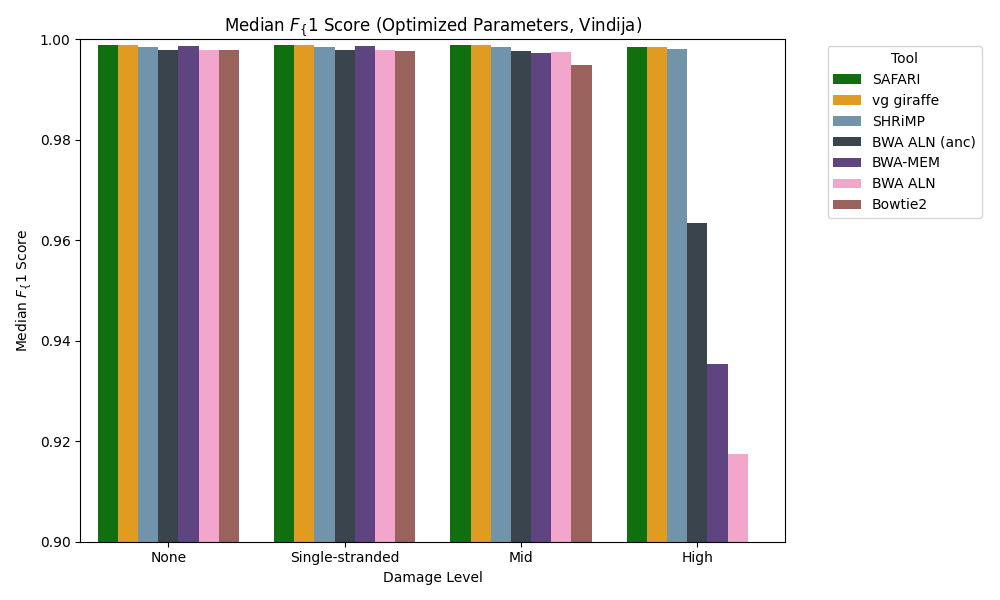
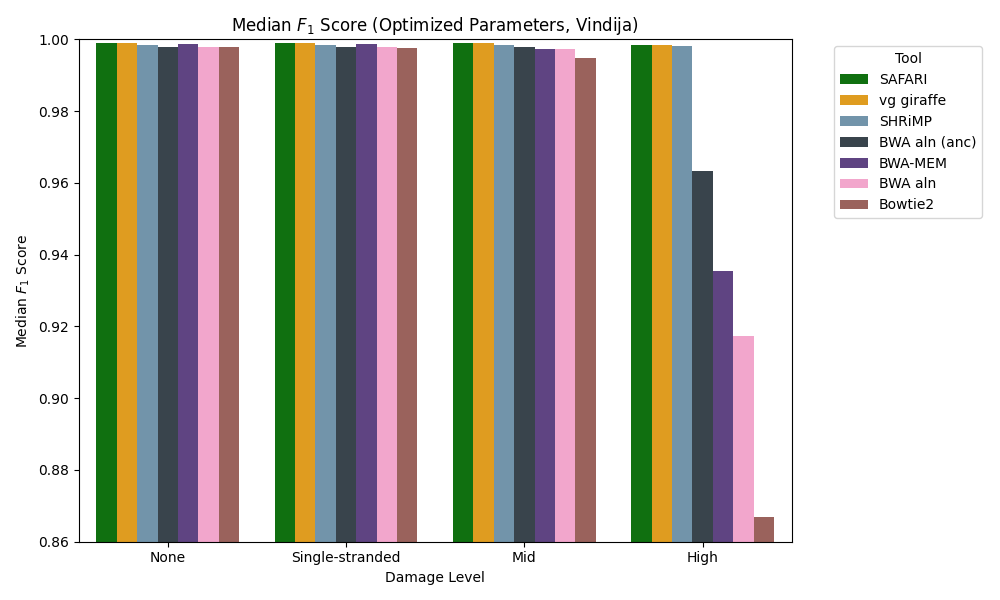
Update plots

diff --git a/linear_experiment/human_mito/stat_results/plot_F1_default_all.py b/linear_experiment/human_mito/stat_results/plot_F1_default_all.py
@@ -1,0 +1,79 @@
+import pandas as pd
+import matplotlib.pyplot as plt
+import seaborn as sns
+import sys
+
+def main():
+    # Load the data
+    file_path = sys.argv[1]
+    data = pd.read_csv(file_path)
+
+    # Subset the dataframe
+    subset_df = data[((data['tool'].str.strip().str.lower().isin(['safari', 'vg giraffe'])) & (data['k'] == 29) & (data['w'] == 11)) | (~data['tool'].str.strip().str.lower().isin(['safari', 'vg giraffe']))]
+
+    # Calculate median F1 scores
+    median_f1_scores = subset_df.groupby(['tool', 'damage_level'])['f1'].median().reset_index()
+
+    # Define custom order for damage levels
+    damage_order = ['None', 'Single-stranded', 'Mid', 'High']
+    median_f1_scores['damage_level'] = pd.Categorical(median_f1_scores['damage_level'], categories=damage_order, ordered=True)
+
+    # Sort the DataFrame by the 'damage_level' to ensure the plot follows the custom order
+    median_f1_scores.sort_values('damage_level', inplace=True)
+    print(median_f1_scores)
+
+    # Correcting the case sensitivity issue for the palette
+    corrected_palette = {
+        'vg giraffe': 'orange',
+        'SAFARI': 'green',
+        'BBMap': '#1f7872',
+        'SHRiMP': '#6996b3',
+        'BWA-MEM': '#5e3a8c',
+        'BWA aln': '#ff99cc',
+        'BWA aln (anc)': '#36454f',
+        'Bowtie2': '#a45a52'
+    }
+
+    # Calculate the maximum and minimum values of the F1 scores
+    max_f1 = median_f1_scores['f1'].max()
+    min_f1 = median_f1_scores['f1'].min()
+
+    # Set the lower limit to be slightly below the minimum value and the upper limit to be slightly above the maximum value
+    ylim_lower = min_f1 - 0.05  # Adjust as needed
+    ylim_upper = max_f1 + 0.005
+
+    # Get the list of unique tools excluding 'SAFARI' and 'vg giraffe'
+    remaining_tools = [tool for tool in median_f1_scores['tool'].unique() if tool not in ['SAFARI', 'vg giraffe']]
+
+    # Define the desired order of tools
+    tool_order = ['SAFARI', 'vg giraffe'] + remaining_tools
+
+    # Create the barplot
+    plt.figure(figsize=(10, 6))
+    ax = sns.barplot(data=median_f1_scores, x='damage_level', y='f1', hue='tool', palette=corrected_palette, hue_order=tool_order)
+    plt.title(r'Median $F_1$ Score (Default Parameters, ' + sys.argv[3] + ")")
+    plt.xlabel('Damage Level')
+    plt.ylabel(r'Median $F_1$ Score')
+
+    # Remove the default legend
+    ax.legend_.remove()
+
+    # Get the handles and labels for the legend
+    handles, labels = ax.get_legend_handles_labels()
+
+    # Place the legend outside the plot area
+    ax.legend(handles=handles, labels=labels, title='Tool',
+          bbox_to_anchor=(1.05, 1), loc='upper left', borderaxespad=0.)
+
+    # Adjust the layout to make room for the legend
+    plt.tight_layout()
+
+    # Set the y-axis limits
+    plt.ylim(ylim_lower, ylim_upper)
+
+    # Save the figure with tight bounding box
+    plt.savefig(sys.argv[2], bbox_inches='tight')
+
+if __name__ == "__main__":
+    main()
+

diff --git a/linear_experiment/human_mito/stat_results/plot_F1_optimized_all.py b/linear_experiment/human_mito/stat_results/plot_F1_optimized_all.py
@@ -24,8 +24,8 @@ def main():
     high_damage_order = median_f1_scores[median_f1_scores['damage_level'] == 'High'].sort_values('f1', ascending=False)['tool'].tolist()
 
     corrected_palette = {
-        'vg giraffe': 'orange', 
-        'SAFARI': 'green', 
+        'vg giraffe': 'orange',
+        'SAFARI': 'green',
         'BBMAP': '#1f7872',
         'SHRiMP': '#6996b3',
         'BWA-MEM': '#5e3a8c',
@@ -34,13 +34,15 @@ def main():
         'Bowtie2': '#a45a52'
     }
 
+    print(median_f1_scores)
+
     plt.figure(figsize=(10, 6))
     sns.barplot(data=median_f1_scores, x='damage_level', y='f1', hue='tool', palette=corrected_palette, hue_order=high_damage_order)
     plt.title(r'Median $F_1$ Score (Optimized Parameters, ' + sys.argv[3] + ")")
     plt.xlabel('Damage Level')
     plt.ylabel(r'Median $F_1$ Score')
     plt.legend(title='Tool', bbox_to_anchor=(1.05, 1), loc='upper left')
-    plt.ylim(0.90, 1)
+    plt.ylim(0.86, 1)
     plt.tight_layout()
 
     plt.savefig(sys.argv[2])
